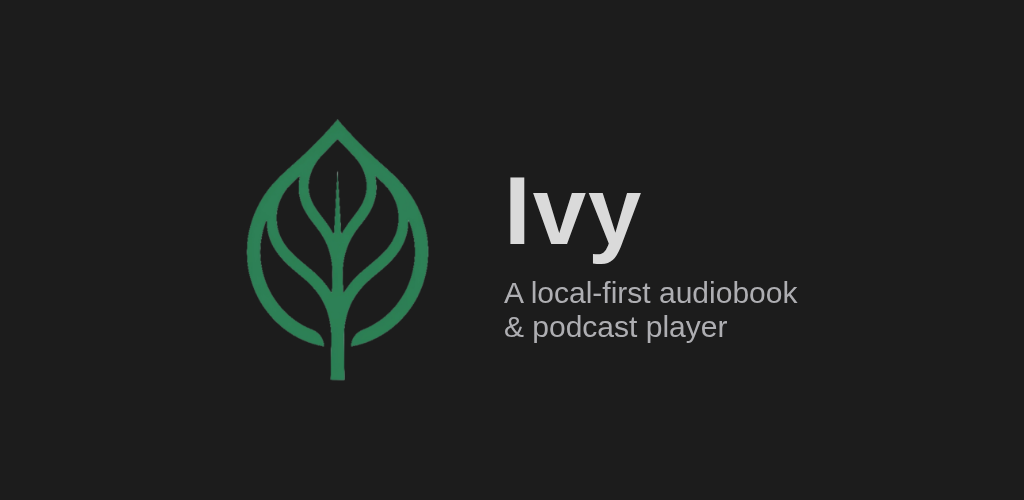
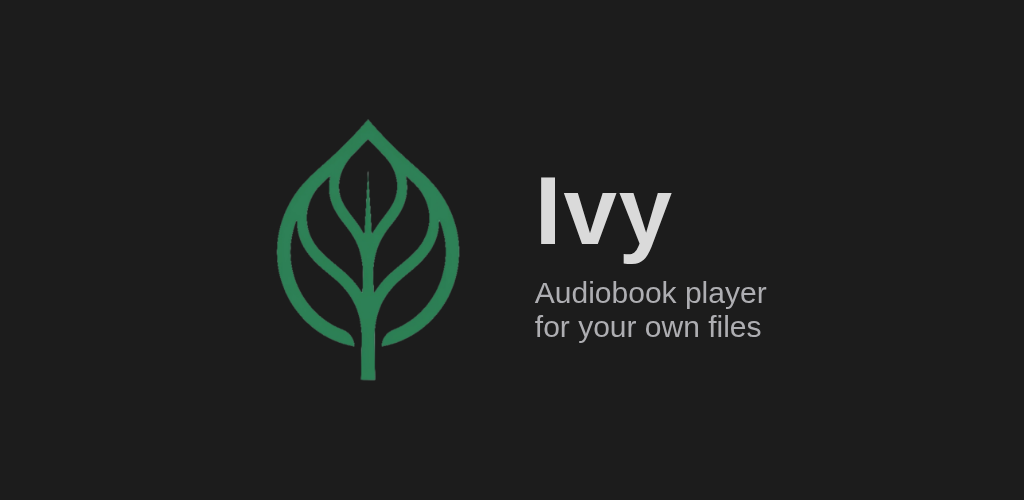
playstore: feature graphic tagline

Changed region(s): [[0.2188, 0.24, 0.4688, 0.78], [0.5, 0.57, 0.7812, 0.69], [0.5, 0.36, 0.6562, 0.54]]

diff --git a/playstore/feature.html b/playstore/feature.html
@@ -23,7 +23,7 @@
   <img src="../web/assets/logo-dark.png">
   <div>
     <h1>Ivy</h1>
-    <p>A local-first audiobook<br>&amp; podcast player</p>
+    <p>Audiobook player<br>for your own files</p>
   </div>
 </body>
 </html>
